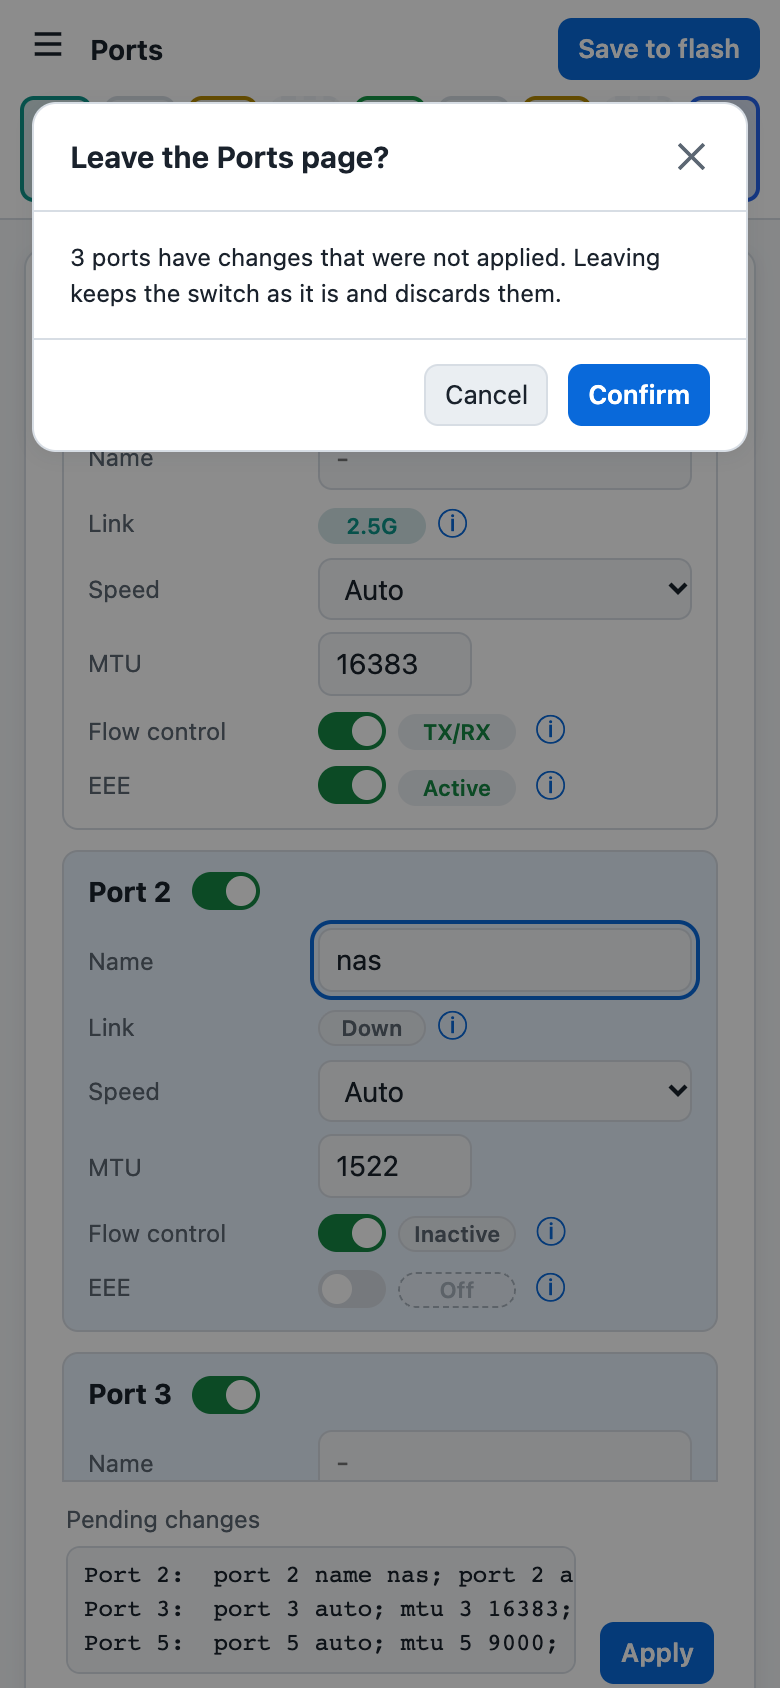
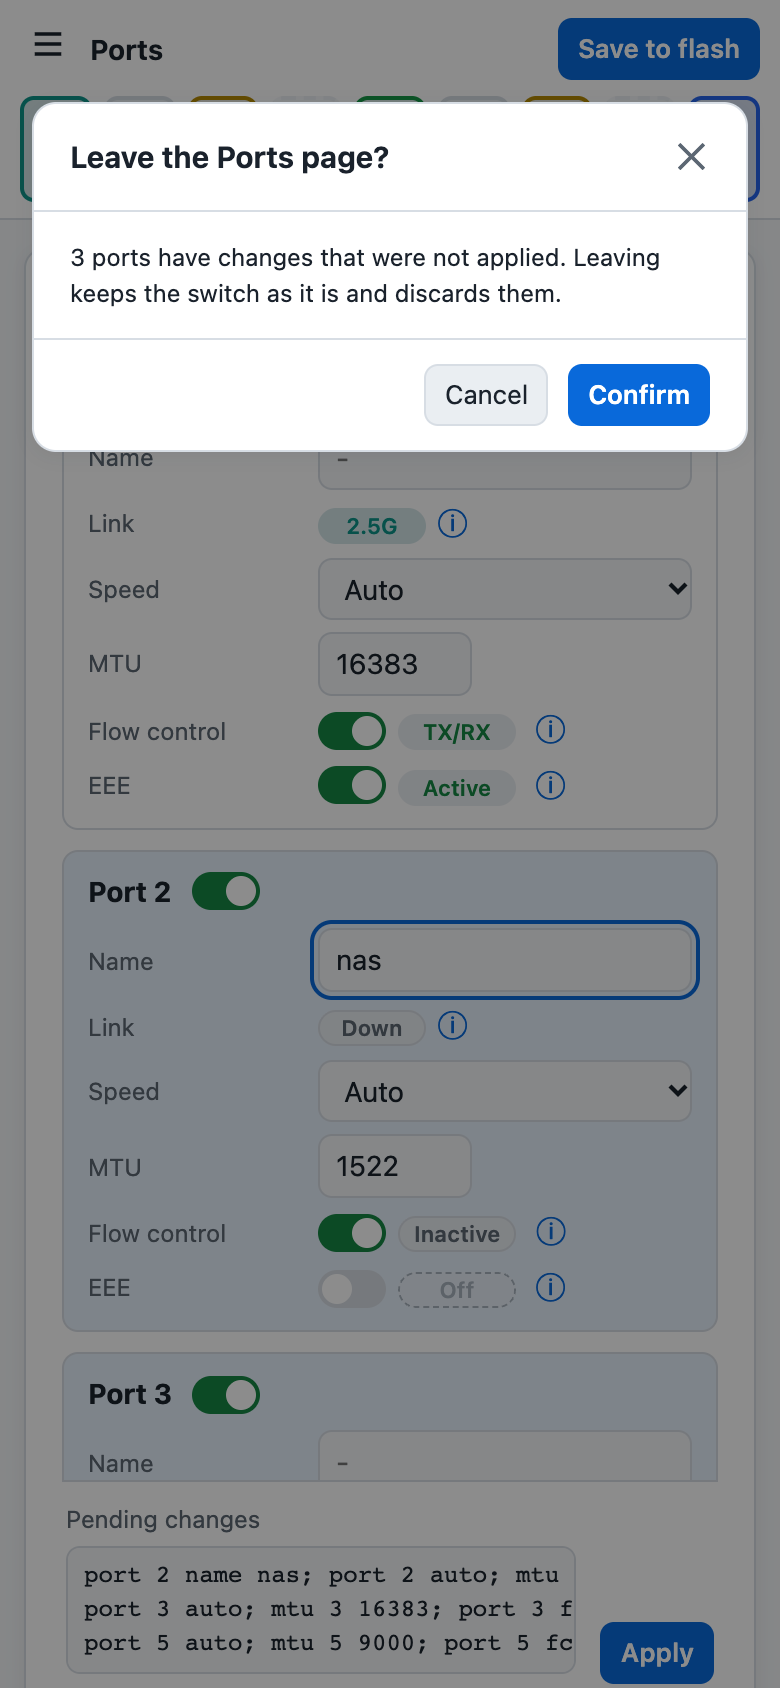
Mock-up J: pending box lists only the commands, one port per line

Changed region(s): [[0.2154, 0.9242, 0.7385, 0.9858], [0.0923, 0.9242, 0.1231, 0.9858]]

diff --git a/html/mockup.js b/html/mockup.js
@@ -455,7 +455,7 @@ function jUpdate(){
     });
     row.style.background=dirty?"var(--sel)":"";
     if(r.apply)r.apply.disabled=!dirty;
-    if(dirty){ports++;lines.push(t("c_port")+" "+S.ports[i].portNum+":  "+jCmds(S.ports[i],b).join("; "))}
+    if(dirty){ports++;lines.push(jCmds(S.ports[i],b).join("; "))}
   });
   J.pending=ports;
   if(!$("jcount"))return;
